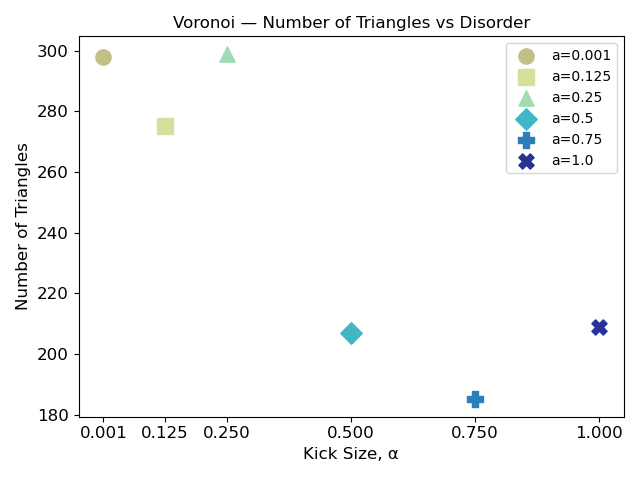
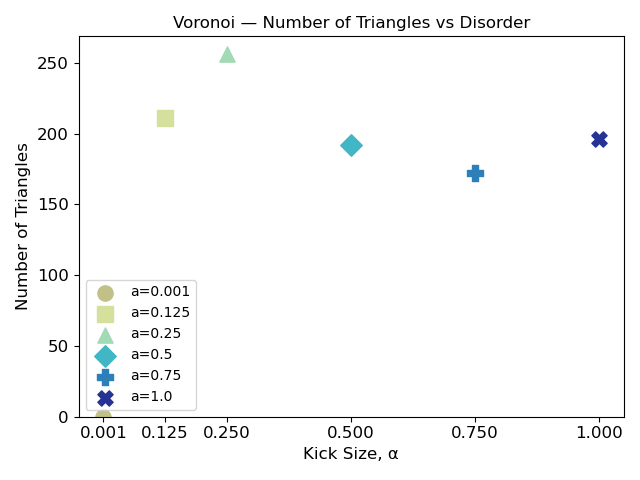
Triangles finished, need to fix comments

diff --git a/network_measures/triangles.py b/network_measures/triangles.py
@@ -18,6 +18,7 @@ if _REPO_ROOT not in sys.path:
     sys.path.insert(0, _REPO_ROOT)
 
 from dataset_imports import *
+from plot_specific_modulus import specific_modulus
 
 OUTPUT_ROOT = "triangle_plots"
 
@@ -105,15 +106,29 @@ def count_triangles(file):
     return len(list(all_triangles(_load_graph(file))))
 
 
-def count_weighted_triangles(tesselation, a, axis):
+def _triangle_axis_weight(u, v, w, coords, axis_vec):
     """
-    Sum, over every triangle in a tesselation sample's graph, the absolute dot product of
-    the triangle's area-weighted normal vector with a coordinate axis.
+    Weight for one triangle (u, v, w): the component of its area-weighted normal vector
+    that's perpendicular to `axis_vec`, i.e. |normal x axis_vec| = |normal| * sin(theta)
+    where theta is the angle between the normal and the axis.
 
     Each triangle's normal is the cross product of two of its edges, so its magnitude is
-    twice the triangle's area -- bigger, more axis-aligned triangles contribute more. The
-    absolute value is used because a triangle's normal direction depends on an arbitrary
-    vertex ordering from all_triangles(), not any real geometric property.
+    twice the triangle's area -- bigger triangles contribute more. Weighting by the
+    perpendicular component (rather than the parallel/dot-product component) means a
+    triangle contributes most when its normal is perpendicular to the axis (theta=90,
+    weight=|normal|) and nothing when its normal is parallel to the axis (theta=0,
+    weight=0), i.e. triangles whose face contains the axis direction dominate.
+    """
+    normal = np.cross(coords[v] - coords[u], coords[w] - coords[u])
+    return np.linalg.norm(np.cross(normal, axis_vec))
+
+
+def count_weighted_triangles(tesselation, a, axis):
+    """
+    Sum, over every triangle in a tesselation sample's graph, the perpendicular
+    (axis-normal) component of the triangle's area-weighted normal vector -- see
+    _triangle_axis_weight. Triangles whose normal is perpendicular to `axis` (i.e. the
+    triangle's face contains the axis direction) contribute the most.
 
     tesselation - a tesselation letter ("C", "D", "G", "V") or name ("Centroidal", ...)
     a           - disorder value, e.g. 0.25 (must have a saved adjacency/point-cloud pair)
@@ -125,15 +140,10 @@ def count_weighted_triangles(tesselation, a, axis):
     G = _load_graph(dataset["adjacency_file"])
     coords = np.load(dataset["point_cloud_file"])
 
-    total = 0.0
-    for u, v, w in all_triangles(G):
-        normal = np.cross(coords[v] - coords[u], coords[w] - coords[u])
-        total += abs(np.dot(normal, axis_vec))
-
-    return total
+    return sum(_triangle_axis_weight(u, v, w, coords, axis_vec) for u, v, w in all_triangles(G))
 
 
-def plot_tesselation(tesselation, ax=None, save_path=None, show=True):
+def plot_tesselation(tesselation, ax=None, save_path=None, show=True, start_zero=True):
     """
     Graphs number of triangles vs. a-value (Kick Size, alpha) for every saved sample of a
     tesselation, using the same marker/color-by-a-value convention as plot_specific_modulus.
@@ -142,6 +152,7 @@ def plot_tesselation(tesselation, ax=None, save_path=None, show=True):
     ax          - optional existing matplotlib Axes to draw on; a new figure/axes is made if omitted
     save_path   - optional path to save the figure to
     show        - whether to display the figure (plt.show())
+    start_zero  - if True, the y-axis starts at 0
     """
     letter = _resolve_tesselation(tesselation)
     title = TESSELATION_NAMES[letter]
@@ -180,6 +191,8 @@ def plot_tesselation(tesselation, ax=None, save_path=None, show=True):
 
     ax.tick_params(axis='both', labelsize=12)
     ax.set_title(f"{title} — Number of Triangles vs Disorder")
+    if start_zero:
+        ax.set_ylim(bottom=0)
     plt.tight_layout()
 
     if save_path:
@@ -191,7 +204,7 @@ def plot_tesselation(tesselation, ax=None, save_path=None, show=True):
     return ax
 
 
-def plot_weighted_tesselation(tesselation, ax=None, save_path=None, show=True):
+def plot_weighted_tesselation(tesselation, ax=None, save_path=None, show=True, start_zero=True):
     """
     Graphs weighted-triangle count (see count_weighted_triangles) vs. a-value (Kick Size,
     alpha) for every saved sample of a tesselation, plotting all three of x-hat, y-hat, and
@@ -202,6 +215,7 @@ def plot_weighted_tesselation(tesselation, ax=None, save_path=None, show=True):
     ax          - optional existing matplotlib Axes to draw on; a new figure/axes is made if omitted
     save_path   - optional path to save the figure to
     show        - whether to display the figure (plt.show())
+    start_zero  - if True, the y-axis starts at 0
     """
     letter = _resolve_tesselation(tesselation)
     title = TESSELATION_NAMES[letter]
@@ -239,6 +253,149 @@ def plot_weighted_tesselation(tesselation, ax=None, save_path=None, show=True):
 
     ax.tick_params(axis='both', labelsize=12)
     ax.set_title(f"{title} — Weighted Triangle Count vs Disorder")
+    if start_zero:
+        ax.set_ylim(bottom=0)
+    plt.tight_layout()
+
+    if save_path:
+        plt.savefig(save_path)
+
+    if show:
+        plt.show()
+
+    return ax
+
+
+def plot_triangles_vs_modulus(tesselation, cycle=CYCLE, ax=None, save_path=None, show=True, start_zero=True):
+    """
+    Graphs number of triangles (x-axis) vs. specific modulus (y-axis, from
+    plot_specific_modulus.specific_modulus) for every saved sample of a tesselation. Marker
+    and color are keyed by a-value, same convention as plot_tesselation. Since specific
+    modulus data can have multiple orientations per a-value (see specific_modulus), every
+    orientation is plotted -- points sharing an a-value share the same x (triangle count)
+    but may differ in y (that orientation's specific modulus).
+
+    tesselation - a tesselation letter ("C", "D", "G", "V") or name ("Centroidal", ...)
+    cycle       - which loading cycle to isolate (passed through to specific_modulus)
+    ax          - optional existing matplotlib Axes to draw on; a new figure/axes is made if omitted
+    save_path   - optional path to save the figure to
+    show        - whether to display the figure (plt.show())
+    start_zero  - if True, the y-axis starts at 0
+    """
+    letter = _resolve_tesselation(tesselation)
+    title = TESSELATION_NAMES[letter]
+
+    if ax is None:
+        _, ax = plt.subplots()
+
+    datasets = sorted(NPY_DATASETS[letter], key=lambda d: d["a"])
+    all_a_values = [d["a"] for d in datasets]
+    marker_for_a = {a: MARKERS[i % len(MARKERS)] for i, a in enumerate(all_a_values)}
+    color_for_a = {a: COLORS[i % len(COLORS)] for i, a in enumerate(all_a_values)}
+    triangles_for_a = {d["a"]: count_triangles(d["adjacency_file"]) for d in datasets}
+
+    modulus_data = specific_modulus(letter, cycle=cycle)
+
+    # Collect one legend handle per a-value
+    legend_handles = {}
+
+    for i in range(len(modulus_data["a_values"])):
+        a = modulus_data["a_values"][i]
+        handle = ax.errorbar(
+            triangles_for_a[a],
+            modulus_data["specific_modulus"][i],
+            yerr=modulus_data["specific_modulus_err"][i],
+            fmt=marker_for_a[a],
+            color=color_for_a[a],
+            markersize=12,
+            capsize=8,
+            elinewidth=2,
+            label=f"a={a}",
+        )
+        legend_handles[a] = handle
+
+    ax.set_xlabel("Number of Triangles", fontsize=12)
+    ax.set_ylabel(r"Specific Modulus, $\mathrm{N\ mm^{-1}\ kg^{-1}}$", fontsize=12)
+    ax.legend([legend_handles[a] for a in all_a_values], [f"a={a}" for a in all_a_values])
+
+    ax.tick_params(axis='both', labelsize=12)
+    ax.set_title(f"{title} Cycle {cycle} — Specific Modulus vs Number of Triangles")
+    if start_zero:
+        ax.set_ylim(bottom=0)
+    plt.tight_layout()
+
+    if save_path:
+        plt.savefig(save_path)
+
+    if show:
+        plt.show()
+
+    return ax
+
+
+def plot_weighted_triangles_vs_modulus(tesselation, cycle=CYCLE, ax=None, save_path=None, show=True, start_zero=True):
+    """
+    Graphs weighted-triangle count (x-axis, see count_weighted_triangles) vs. specific
+    modulus (y-axis, from plot_specific_modulus.specific_modulus) for every saved sample of
+    a tesselation, plotting all three of x-hat, y-hat, and z-hat for each a-value. Color
+    distinguishes a-value (same convention as plot_tesselation); marker shape distinguishes
+    axis -- a literal "X", "Y", or "Z" glyph. Every specific-modulus orientation is plotted
+    (see plot_triangles_vs_modulus), so a given a-value/axis pair may appear at the same x
+    with multiple y's.
+
+    tesselation - a tesselation letter ("C", "D", "G", "V") or name ("Centroidal", ...)
+    cycle       - which loading cycle to isolate (passed through to specific_modulus)
+    ax          - optional existing matplotlib Axes to draw on; a new figure/axes is made if omitted
+    save_path   - optional path to save the figure to
+    show        - whether to display the figure (plt.show())
+    start_zero  - if True, the y-axis starts at 0
+    """
+    letter = _resolve_tesselation(tesselation)
+    title = TESSELATION_NAMES[letter]
+
+    if ax is None:
+        _, ax = plt.subplots()
+
+    datasets = sorted(NPY_DATASETS[letter], key=lambda d: d["a"])
+    all_a_values = [d["a"] for d in datasets]
+    color_for_a = {a: COLORS[i % len(COLORS)] for i, a in enumerate(all_a_values)}
+    marker_for_axis = {"x": "$X$", "y": "$Y$", "z": "$Z$"}
+    weighted_for_a = {
+        a: {axis: count_weighted_triangles(letter, a, axis) for axis in ("x", "y", "z")}
+        for a in all_a_values
+    }
+
+    modulus_data = specific_modulus(letter, cycle=cycle)
+
+    # Collect one legend handle per a-value (color), not per axis (the X/Y/Z glyphs are
+    # self-explanatory).
+    legend_handles = {}
+
+    for i in range(len(modulus_data["a_values"])):
+        a = modulus_data["a_values"][i]
+        for axis in ("x", "y", "z"):
+            handle = ax.errorbar(
+                weighted_for_a[a][axis],
+                modulus_data["specific_modulus"][i],
+                yerr=modulus_data["specific_modulus_err"][i],
+                marker=marker_for_axis[axis],
+                linestyle='none',
+                color=color_for_a[a],
+                markersize=12,
+                capsize=8,
+                elinewidth=2,
+                label=f"a={a}",
+            )
+            legend_handles.setdefault(a, handle)
+
+    ax.set_xlabel("Weighted Triangle Count", fontsize=12)
+    ax.set_ylabel(r"Specific Modulus, $\mathrm{N\ mm^{-1}\ kg^{-1}}$", fontsize=12)
+    ax.legend([legend_handles[a] for a in all_a_values], [f"a={a}" for a in all_a_values])
+
+    ax.tick_params(axis='both', labelsize=12)
+    ax.set_title(f"{title} Cycle {cycle} — Specific Modulus vs Weighted Triangle Count")
+    if start_zero:
+        ax.set_ylim(bottom=0)
     plt.tight_layout()
 
     if save_path:
@@ -253,7 +410,7 @@ def plot_weighted_tesselation(tesselation, ax=None, save_path=None, show=True):
 def visualize_weighted_triangles(tesselation, a, axis, output_dir=None, show=True):
     """
     Draws one tesselation sample's 3D network (nodes + edges) with every triangle face
-    filled in, shaded darker the higher its weighted dot product with `axis` is (see
+    filled in, shaded darker the more perpendicular its normal is to `axis` (see
     count_weighted_triangles). The plot title also reports the total weighted-triangle
     count for `axis`, computed via count_weighted_triangles.
 
@@ -273,7 +430,7 @@ def visualize_weighted_triangles(tesselation, a, axis, output_dir=None, show=Tru
     coords = np.load(dataset["point_cloud_file"])
 
     triangles = list(all_triangles(G))
-    weights = [abs(np.dot(np.cross(coords[v] - coords[u], coords[w] - coords[u]), axis_vec)) for u, v, w in triangles]
+    weights = [_triangle_axis_weight(u, v, w, coords, axis_vec) for u, v, w in triangles]
 
     fig = plt.figure(figsize=(9, 7))
     ax = fig.add_subplot(111, projection="3d")
@@ -287,7 +444,7 @@ def visualize_weighted_triangles(tesselation, a, axis, output_dir=None, show=Tru
             color="gray", alpha=0.4, linewidth=1, zorder=1,
         )
 
-    # Triangle faces -- darker red means a higher |normal . axis| dot product
+    # Triangle faces -- darker red means the normal is more perpendicular to the axis
     if triangles:
         cmap = plt.colormaps["Reds"]
         norm = mcolors.Normalize(vmin=min(weights), vmax=max(weights))
@@ -299,7 +456,7 @@ def visualize_weighted_triangles(tesselation, a, axis, output_dir=None, show=Tru
 
         mappable = plt.cm.ScalarMappable(norm=norm, cmap=cmap)
         mappable.set_array([])
-        plt.colorbar(mappable, ax=ax, label=f"|normal · {axis}| (area-weighted)", shrink=0.6)
+        plt.colorbar(mappable, ax=ax, label=f"|normal × {axis}| (area-weighted)", shrink=0.6)
 
     # Reference arrow showing the axis direction, placed just outside the point cloud
     bounds_min = coords.min(axis=0)
@@ -339,24 +496,44 @@ if __name__ == "__main__":
     os.makedirs(OUTPUT_ROOT, exist_ok=True)
 
     """This is to generate the plot for weighted triangles"""
-    # for letter in TESSELATION_NAMES:
-    #     title = TESSELATION_NAMES[letter]
-    #     plot_weighted_tesselation(
-    #         letter,
-    #         save_path=os.path.join(OUTPUT_ROOT, f"{title}-Weighted-Triangles-vs-Disorder.png"),
-    #         show=False,
-    #     )
-    #     plt.close("all")
+    for letter in TESSELATION_NAMES:
+        title = TESSELATION_NAMES[letter]
+        plot_weighted_tesselation(
+            letter,
+            save_path=os.path.join(OUTPUT_ROOT, f"{title}-Weighted-Triangles-vs-Disorder.png"),
+            show=False,
+        )
+        plt.close("all")
 
     """This is for the visualization plots, no plot has been made for this yet"""
     # visualize_weighted_triangles("centroidal", 1, "x", output_dir=None, show=True)
 
     """This is to generate the plot for all triangles"""
-    # for letter in TESSELATION_NAMES:
-    #     title = TESSELATION_NAMES[letter]
-    #     plot_tesselation(
-    #         letter,
-    #         save_path=os.path.join(OUTPUT_ROOT, f"{title}-Triangles-vs-Disorder.png"),
-    #         show=False,
-    #     )
-    #     plt.close("all")
+    for letter in TESSELATION_NAMES:
+        title = TESSELATION_NAMES[letter]
+        plot_tesselation(
+            letter,
+            save_path=os.path.join(OUTPUT_ROOT, f"{title}-Triangles-vs-Disorder.png"),
+            show=False,
+        )
+        plt.close("all")
+
+    """This is to generate the plot for number of triangles vs specific modulus"""
+    for letter in TESSELATION_NAMES:
+        title = TESSELATION_NAMES[letter]
+        plot_triangles_vs_modulus(
+            letter,
+            save_path=os.path.join(OUTPUT_ROOT, f"{title}-Triangles-vs-Specific-Modulus.png"),
+            show=False,
+        )
+        plt.close("all")
+
+    """This is to generate the plot for weighted triangles vs specific modulus"""
+    for letter in TESSELATION_NAMES:
+        title = TESSELATION_NAMES[letter]
+        plot_weighted_triangles_vs_modulus(
+            letter,
+            save_path=os.path.join(OUTPUT_ROOT, f"{title}-Weighted-Triangles-vs-Specific-Modulus.png"),
+            show=False,
+        )
+        plt.close("all")
